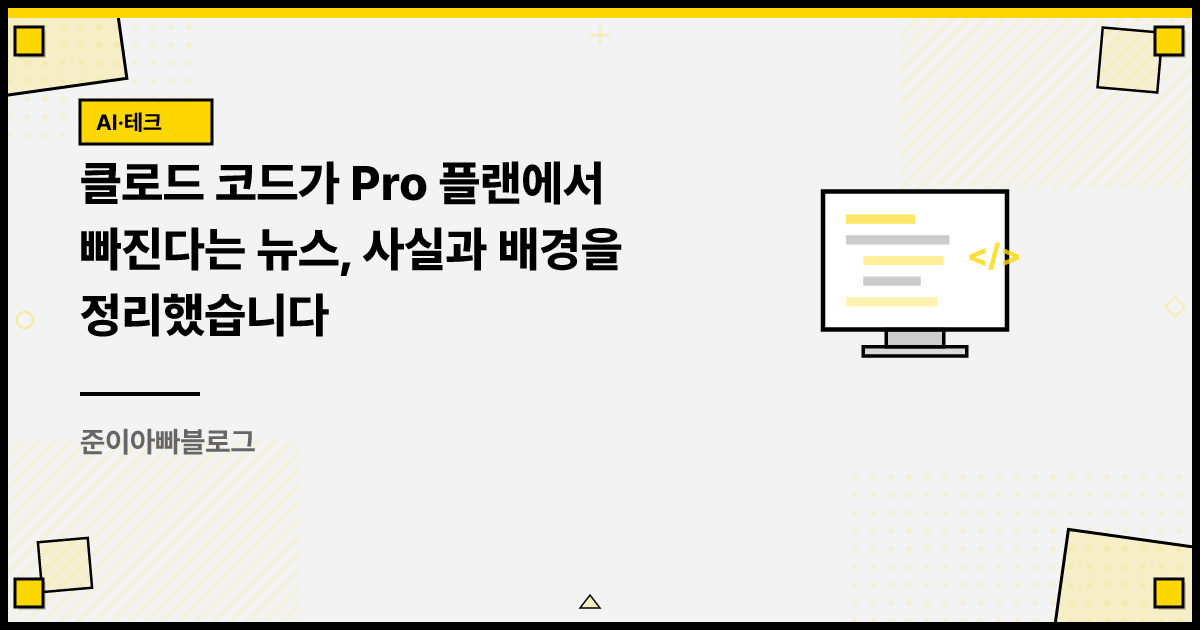
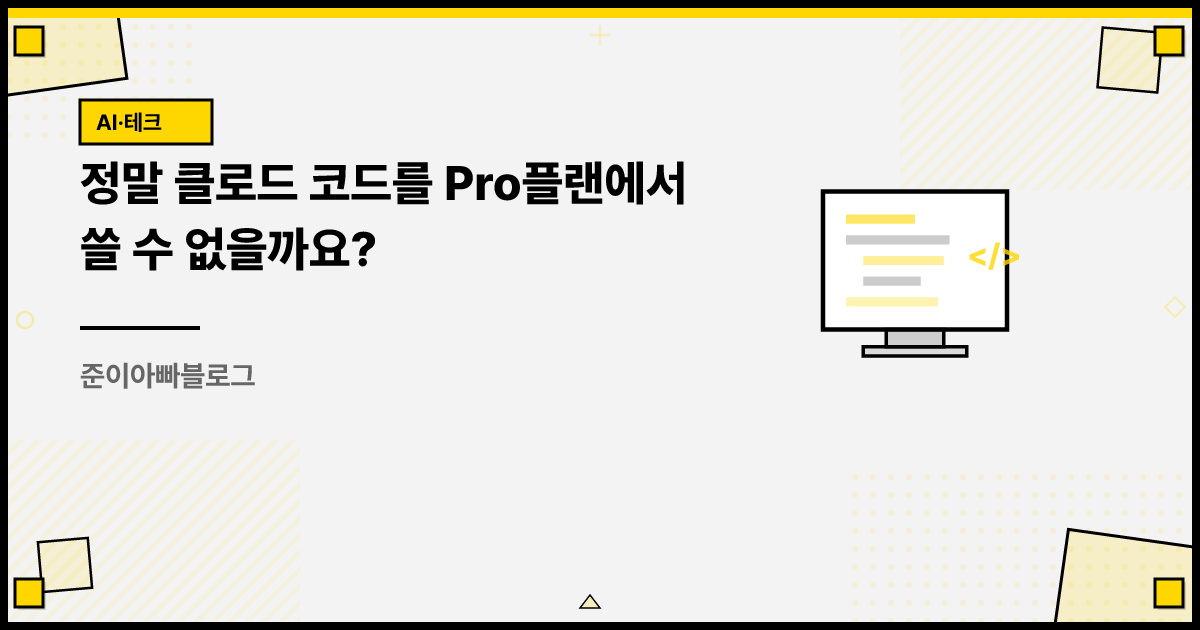
content(insights): Claude Code Pro 팩트체크 제목을 질문형으로 교체
'정말 클로드 코드를 Pro플랜에서 쓸 수 없을까요?'로 변경. 검색
의도('못 쓰게 되는 거냐')에 맞춘 직관적 제목이라 AI 답변 엔진·
사용자 검색 양쪽에서 매칭 확률이 높다. metaTitle·ogTitle과
썸네일도 새 제목으로 재생성.

diff --git a/content/insights/claude-code-pro-plan-fact-check.md b/content/insights/claude-code-pro-plan-fact-check.md
@@ -1,6 +1,6 @@
 ---
 slug: claude-code-pro-plan-fact-check
-title: '클로드 코드가 Pro 플랜에서 빠진다는 뉴스, 사실과 배경을 정리했습니다'
+title: 정말 클로드 코드를 Pro플랜에서 쓸 수 없을까요?
 excerpt: >-
   2026년 4월 22일 Anthropic이 Claude Code를 Pro 플랜에서 잠시 제외했다가 가격 페이지를 복구한 사건을 둘러싸고
   혼란이 큽니다. 공식 해명과 커뮤니티가 추측하는 배경, 기존 Pro 구독자의 실제 영향, 그리고 입문자가 어떻게 시작해야 할지를 팩트체크
@@ -25,12 +25,12 @@ quiz:
       시작하되, 본격 사용이 늘어나는 시점에 Max 5x나 API로 넘어가는 단계적 접근이 가장 안전합니다. 다만 플랜 구조가 바뀔 수
       있다는 점을 전제로 한 선택입니다.
     correctIndex: 0
-metaTitle: '클로드 코드 Pro 플랜 제거 팩트체크: 사실과 배경 정리'
+metaTitle: 정말 클로드 코드를 Pro플랜에서 쓸 수 없을까요? 팩트체크
 metaDescription: >-
   Anthropic이 2026년 4월 22일 Claude Code를 Pro 플랜에서 잠시 제외했다가 복구한 사건의 확정 사실, 공식 입장,
   커뮤니티 추측, Pro 구독 유지 여부, 입문자 시작 경로를 정리했습니다.
 ogImage: /og/claude-code-pro-plan-fact-check.png
-ogTitle: 클로드 코드가 Pro 플랜에서 빠진다는 뉴스 · 팩트체크 정리
+ogTitle: 정말 클로드 코드를 Pro플랜에서 쓸 수 없을까요?
 ogDescription: >-
   실제로 무엇이 바뀌었고, Anthropic은 뭐라고 했고, 왜 이런 실험을 했을지 추측은 어떤지, 지금 Pro 구독해도 되는지, 입문자는
   어떻게 시작해야 하는지 정리했습니다.
